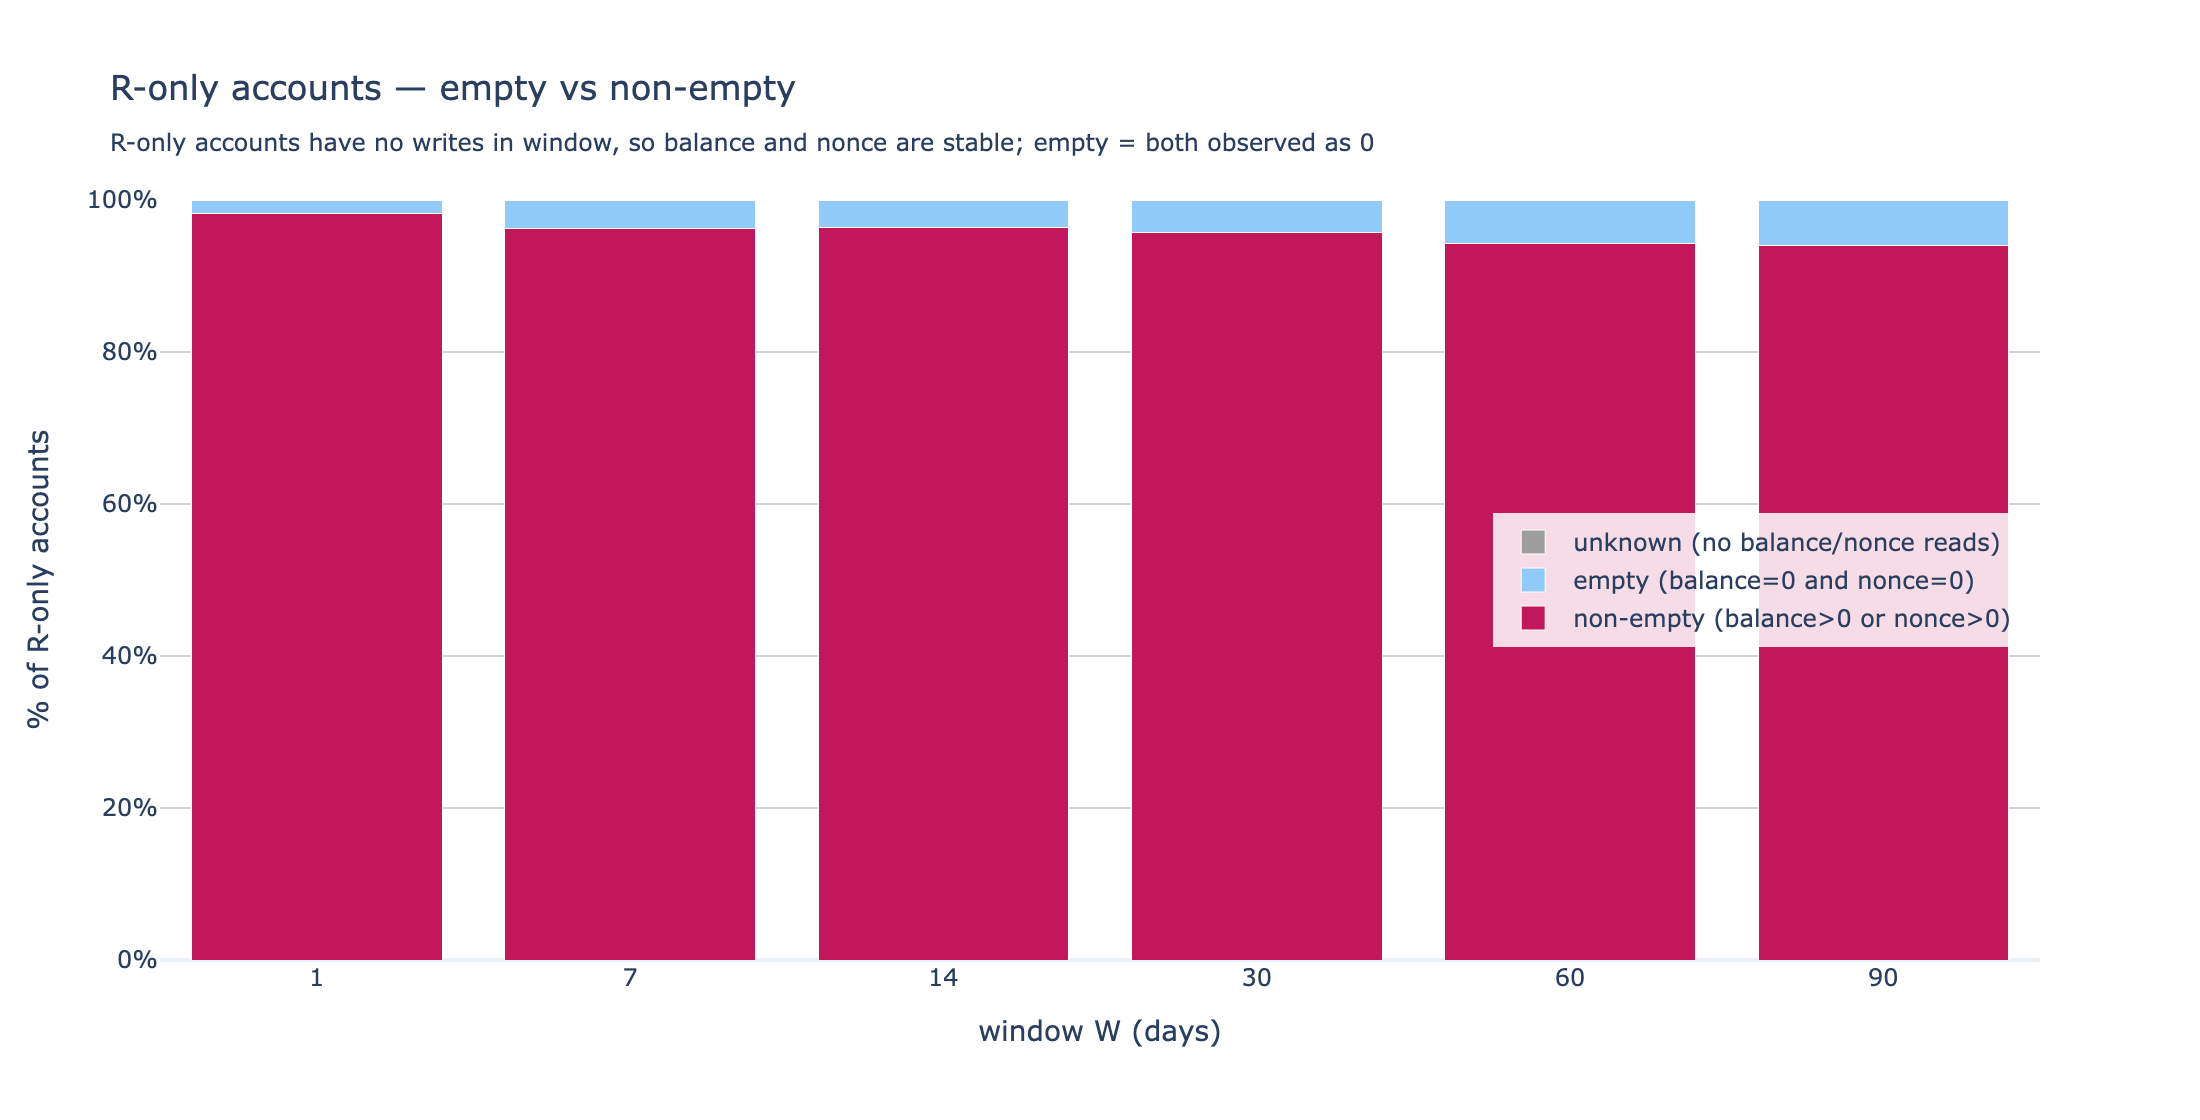
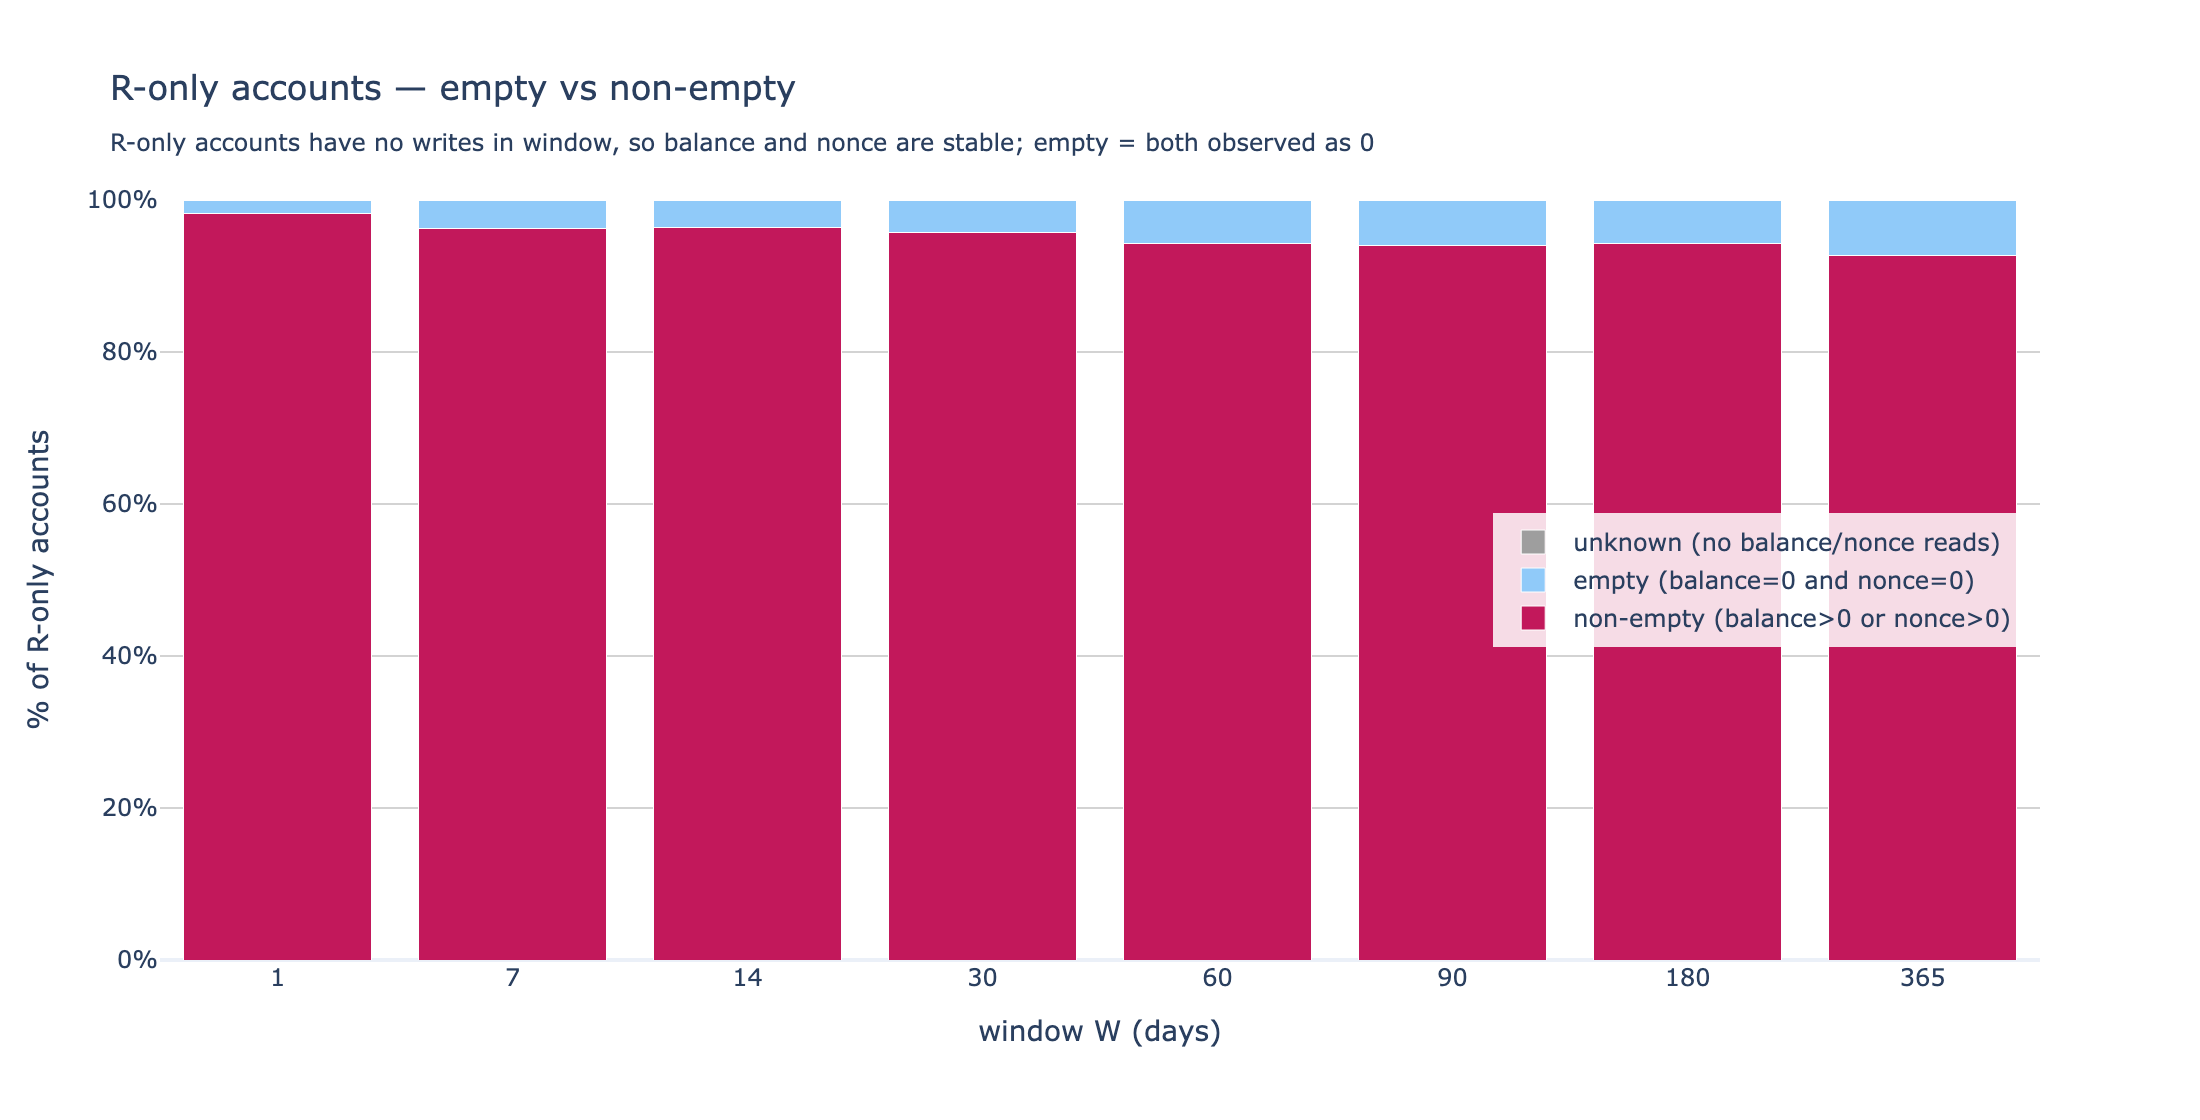
state_access v2: optimize account_r_empty_split — single GROUP BY, runs at W=365
The triple-CTE + double-LEFT-JOIN form (r_set LEFT JOIN balance_values LEFT JOIN
nonce_values) stalled the cluster at W>=180. Rewrote as one UNION ALL event
stream tagged with UInt8 flags, aggregated by a single GROUP BY:
  - max(balance != 0) instead of max(balance) — the per-group state is a byte,
    not a 32-byte UInt256 (~4GB saved at W=365 just for balance state).
  - no JOINs — empty/non-empty/unknown all derived from per-account flag maxes.

Found and fixed a correctness bug while validating: dropping contracts from the
write set (as account_first_op does) shifted total_r by +20k at W=30. ~1% of
contract-creation accounts have no nonce_diff/balance_diff in the same window,
so dropping contracts wrongly admits those written accounts into R. Kept
contracts in the write set here (no JOIN needed — just the address for the flag).
Re-validated: exact match to the prior W=30 numbers (total_r=1,752,187).

Runtimes: W=180 in 131s, W=365 in 235s (both previously hung indefinitely).

Empty-split now complete for all 8 windows. 93-98% of R-only accounts are
non-empty across every W (7.3% empty at W=365d) — the empty-account free pass
under read-side period bumping stays structurally tiny even at a full year.

Report §4d.2 table filled to W=365; SQL appendix updated to the single-GROUP-BY
form.

diff --git a/state_access/queries_v2.py b/state_access/queries_v2.py
@@ -318,57 +318,73 @@ def account_r_empty_split(bn_now: int, days: int) -> str:
     this query alone.
 
     Returns one row: `(total_r, empty_accounts, nonempty_accounts, unknown_accounts)`.
+
+    Single GROUP BY, no JOINs. Each source row is tagged with per-event flags, then
+    aggregated per account with `max`. Two things keep this cheap enough to run at
+    W=365:
+
+    - The per-group state is a handful of `UInt8` flags, not a `UInt256` balance. We only
+      need to know whether a balance/nonce was *ever* nonzero, so we aggregate
+      `max(balance != 0)` rather than `max(balance)` — one byte instead of 32.
+
+    Unlike `account_first_op`, the write set here keeps `canonical_execution_contracts`:
+    ~1% of contract-creation accounts have no `nonce_diff`/`balance_diff` in the same
+    window, and dropping contracts would wrongly admit those (genuinely-written) accounts
+    into R. No JOIN is needed — we only read the `contract_address` for the write flag.
     """
     bn_lo, bn_hi = _window(bn_now, days)
     return f"""
-WITH r_set AS (
-    -- Accounts in R (in any read source) but NOT in any write source.
-    SELECT cityHash64(address) AS h
+WITH per_acct AS (
+    SELECT
+        h,
+        max(is_write)     AS any_write,
+        max(bal_nonzero)  AS bal_nonzero,
+        max(non_nonzero)  AS non_nonzero,
+        max(has_bal_read) AS has_bal_read,
+        max(has_non_read) AS has_non_read
     FROM (
-        SELECT address FROM canonical_execution_balance_reads
+        SELECT cityHash64(address) AS h, toUInt8(1) AS is_write,
+               toUInt8(0) AS bal_nonzero, toUInt8(0) AS non_nonzero,
+               toUInt8(0) AS has_bal_read, toUInt8(0) AS has_non_read
+        FROM canonical_execution_balance_diffs
         WHERE meta_network_name = '{NETWORK}' AND block_number BETWEEN {bn_lo} AND {bn_hi}
         UNION ALL
-        SELECT address FROM canonical_execution_nonce_reads
+        SELECT cityHash64(address), toUInt8(1),
+               toUInt8(0), toUInt8(0), toUInt8(0), toUInt8(0)
+        FROM canonical_execution_nonce_diffs
         WHERE meta_network_name = '{NETWORK}' AND block_number BETWEEN {bn_lo} AND {bn_hi}
         UNION ALL
-        SELECT address FROM canonical_execution_address_appearances
+        SELECT cityHash64(contract_address), toUInt8(1),
+               toUInt8(0), toUInt8(0), toUInt8(0), toUInt8(0)
+        FROM canonical_execution_contracts
+        WHERE meta_network_name = '{NETWORK}' AND block_number BETWEEN {bn_lo} AND {bn_hi}
+        UNION ALL
+        SELECT cityHash64(address), toUInt8(0),
+               toUInt8(balance != 0), toUInt8(0), toUInt8(1), toUInt8(0)
+        FROM canonical_execution_balance_reads
+        WHERE meta_network_name = '{NETWORK}' AND block_number BETWEEN {bn_lo} AND {bn_hi}
+        UNION ALL
+        SELECT cityHash64(address), toUInt8(0),
+               toUInt8(0), toUInt8(nonce != 0), toUInt8(0), toUInt8(1)
+        FROM canonical_execution_nonce_reads
+        WHERE meta_network_name = '{NETWORK}' AND block_number BETWEEN {bn_lo} AND {bn_hi}
+        UNION ALL
+        SELECT cityHash64(address), toUInt8(0),
+               toUInt8(0), toUInt8(0), toUInt8(0), toUInt8(0)
+        FROM canonical_execution_address_appearances
         WHERE meta_network_name = '{NETWORK}'
           AND block_number BETWEEN {bn_lo} AND {bn_hi}
           AND relationship IN ({_RELATIONSHIP_LIST})
     )
-    GROUP BY address
-    HAVING cityHash64(address) NOT IN (
-        SELECT cityHash64(address) FROM canonical_execution_balance_diffs
-        WHERE meta_network_name = '{NETWORK}' AND block_number BETWEEN {bn_lo} AND {bn_hi}
-        UNION DISTINCT
-        SELECT cityHash64(address) FROM canonical_execution_nonce_diffs
-        WHERE meta_network_name = '{NETWORK}' AND block_number BETWEEN {bn_lo} AND {bn_hi}
-        UNION DISTINCT
-        SELECT cityHash64(contract_address) FROM canonical_execution_contracts
-        WHERE meta_network_name = '{NETWORK}' AND block_number BETWEEN {bn_lo} AND {bn_hi}
-    )
-),
-balance_values AS (
-    SELECT cityHash64(address) AS h, max(toUInt256(balance)) AS max_balance
-    FROM canonical_execution_balance_reads
-    WHERE meta_network_name = '{NETWORK}' AND block_number BETWEEN {bn_lo} AND {bn_hi}
-    GROUP BY h
-),
-nonce_values AS (
-    SELECT cityHash64(address) AS h, max(nonce) AS max_nonce
-    FROM canonical_execution_nonce_reads
-    WHERE meta_network_name = '{NETWORK}' AND block_number BETWEEN {bn_lo} AND {bn_hi}
     GROUP BY h
 )
 SELECT
-    count() AS total_r,
-    countIf(coalesce(max_balance, toUInt256(0)) = 0 AND coalesce(max_nonce, 0) = 0
-            AND (max_balance IS NOT NULL OR max_nonce IS NOT NULL)) AS empty_accounts,
-    countIf(coalesce(max_balance, toUInt256(0)) > 0 OR coalesce(max_nonce, 0) > 0) AS nonempty_accounts,
-    countIf(max_balance IS NULL AND max_nonce IS NULL) AS unknown_accounts
-FROM r_set
-LEFT JOIN balance_values USING h
-LEFT JOIN nonce_values USING h
+    countIf(any_write = 0) AS total_r,
+    countIf(any_write = 0 AND bal_nonzero = 0 AND non_nonzero = 0
+            AND (has_bal_read = 1 OR has_non_read = 1)) AS empty_accounts,
+    countIf(any_write = 0 AND (bal_nonzero = 1 OR non_nonzero = 1)) AS nonempty_accounts,
+    countIf(any_write = 0 AND has_bal_read = 0 AND has_non_read = 0) AS unknown_accounts
+FROM per_acct
 """
 
 

diff --git a/state_access/REPORT_v2.md b/state_access/REPORT_v2.md
@@ -527,28 +527,25 @@ account once:
 
 | W (days) | R-only total | empty | non-empty | unknown |
 |---:|---:|---:|---:|---:|
-| 1   |   135,922 | 1.79% | **98.21%** | 0.00% |
-| 7   |   586,826 | 3.71% | **96.29%** | 0.00% |
-| 14  | 1,065,388 | 3.66% | 96.34% | 0.00% |
-| 30  | 1,752,187 | 4.24% | 95.76% | 0.00% |
-| 60  | 2,619,858 | 5.68% | 94.32% | 0.00% |
-| 90  | 3,327,941 | 5.98% | 94.02% | 0.00% |
+| 1   |    135,922 | 1.79% | **98.21%** | 0 |
+| 7   |    586,826 | 3.71% | **96.29%** | 0 |
+| 14  |  1,065,388 | 3.66% | 96.34% | 0 |
+| 30  |  1,752,187 | 4.24% | 95.76% | 0 |
+| 60  |  2,619,858 | 5.68% | 94.32% | 0 |
+| 90  |  3,327,941 | 5.98% | 94.02% | 0 |
+| 180 |  8,061,680 | 5.71% | 94.29% | 10 |
+| 365 | 17,025,144 | 7.34% | **92.66%** | 11 |
 
-**Almost every R-only account is non-empty** — 94–98% across all windows, drifting only
-slightly toward empty as W grows. So under read-side EIP-8188, virtually all R-only
-account reads would bump a real period, converting reads into writes from the user's
-perspective. The empty-account "free pass" is structurally tiny. `unknown` is identically
-zero — every R-only account that appears via `address_appearances` also has at least one
-balance or nonce read in window.
+**Almost every R-only account is non-empty** — 93–98% across all windows, drifting only
+slightly toward empty as W grows (7.3% empty at W=365d). So under read-side EIP-8188,
+virtually all R-only account reads would bump a real period, converting reads into writes
+from the user's perspective. The empty-account "free pass" is structurally tiny.
+`unknown` is negligible (≤11 accounts at any W) — almost every R-only account that
+appears via `address_appearances` also has at least one balance or nonce read in window.
 
 This is the policy-relevant complement to the first-op analysis: even for accounts that
 aren't first-event reads, the *pure* R-only slice (where any read at all bumps a period)
 is dominated by non-empty objects.
-
-(The empty-split sweep tops out at W=90d — the W=180d/365d variants run two LEFT JOINs
-over the full year of `balance_reads` + `nonce_reads` and stalled the local cluster. The
-trend is flat enough that the tail adds nothing; re-run
-`state_access/_sweep_resume_all.py` if the exact W=180/365 numbers are wanted.)
 
 ## 5. Q3 — Concentration (top-N share of accesses)
 
@@ -902,40 +899,54 @@ Full SQL in `state_access/queries_v2.py` (`slot_first_op`, `account_first_op`).
 
 ### R-only empty/non-empty split (§4d.2)
 
+Single GROUP BY, no JOINs. Each source row is tagged with `UInt8` flags; we aggregate
+`max(balance != 0)` rather than `max(balance)` so the per-group state is a byte, not a
+`UInt256`. This is what lets it run at W=365d (the earlier triple-CTE + double-LEFT-JOIN
+form stalled the cluster).
+
 ```sql
-WITH r_set AS (
-    -- accounts in any read source but NOT in any write source
-    SELECT cityHash64(address) AS h
+WITH per_acct AS (
+    SELECT
+        h,
+        max(is_write)     AS any_write,
+        max(bal_nonzero)  AS bal_nonzero,
+        max(non_nonzero)  AS non_nonzero,
+        max(has_bal_read) AS has_bal_read,
+        max(has_non_read) AS has_non_read
     FROM (
-        SELECT address FROM canonical_execution_balance_reads WHERE in_window
+        -- writes (is_write=1): balance_diffs, nonce_diffs, contracts(contract_address)
+        SELECT cityHash64(address) AS h, toUInt8(1) AS is_write,
+               toUInt8(0) AS bal_nonzero, toUInt8(0) AS non_nonzero,
+               toUInt8(0) AS has_bal_read, toUInt8(0) AS has_non_read
+        FROM canonical_execution_balance_diffs WHERE in_window
+        UNION ALL ... -- nonce_diffs, contracts: same write pattern
+        -- value reads: balance_reads sets bal_nonzero/has_bal_read, nonce_reads similarly
         UNION ALL
-        SELECT address FROM canonical_execution_nonce_reads   WHERE in_window
+        SELECT cityHash64(address), toUInt8(0),
+               toUInt8(balance != 0), toUInt8(0), toUInt8(1), toUInt8(0)
+        FROM canonical_execution_balance_reads WHERE in_window
+        UNION ALL ... -- nonce_reads: toUInt8(nonce != 0) into non_nonzero, has_non_read=1
+        -- value-less reads: address_appearances (all flags 0 except it's a read presence)
         UNION ALL
-        SELECT address FROM canonical_execution_address_appearances
+        SELECT cityHash64(address), toUInt8(0),
+               toUInt8(0), toUInt8(0), toUInt8(0), toUInt8(0)
+        FROM canonical_execution_address_appearances
         WHERE in_window AND relationship IN (...)
-    ) GROUP BY address
-    HAVING h NOT IN (writes union for the same window)
-),
-balance_values AS (
-    SELECT cityHash64(address) AS h, max(toUInt256(balance)) AS max_balance
-    FROM canonical_execution_balance_reads WHERE in_window
-    GROUP BY h
-),
-nonce_values AS (
-    SELECT cityHash64(address) AS h, max(nonce) AS max_nonce
-    FROM canonical_execution_nonce_reads WHERE in_window
+    )
     GROUP BY h
 )
 SELECT
-    count() AS total_r,
-    countIf(coalesce(max_balance, toUInt256(0)) = 0 AND coalesce(max_nonce, 0) = 0
-            AND (max_balance IS NOT NULL OR max_nonce IS NOT NULL)) AS empty_accounts,
-    countIf(coalesce(max_balance, toUInt256(0)) > 0 OR coalesce(max_nonce, 0) > 0) AS nonempty_accounts,
-    countIf(max_balance IS NULL AND max_nonce IS NULL) AS unknown_accounts
-FROM r_set
-LEFT JOIN balance_values USING h
-LEFT JOIN nonce_values   USING h;
+    countIf(any_write = 0) AS total_r,
+    countIf(any_write = 0 AND bal_nonzero = 0 AND non_nonzero = 0
+            AND (has_bal_read = 1 OR has_non_read = 1)) AS empty_accounts,
+    countIf(any_write = 0 AND (bal_nonzero = 1 OR non_nonzero = 1)) AS nonempty_accounts,
+    countIf(any_write = 0 AND has_bal_read = 0 AND has_non_read = 0) AS unknown_accounts
+FROM per_acct;
 ```
+
+`contracts` is kept in the write set here (unlike `account_first_op`): ~1% of
+contract-creation accounts lack a `nonce_diff`/`balance_diff` in window, and dropping
+contracts would wrongly admit those written accounts into R.
 
 ### Cross-validation against the original analysis
 
